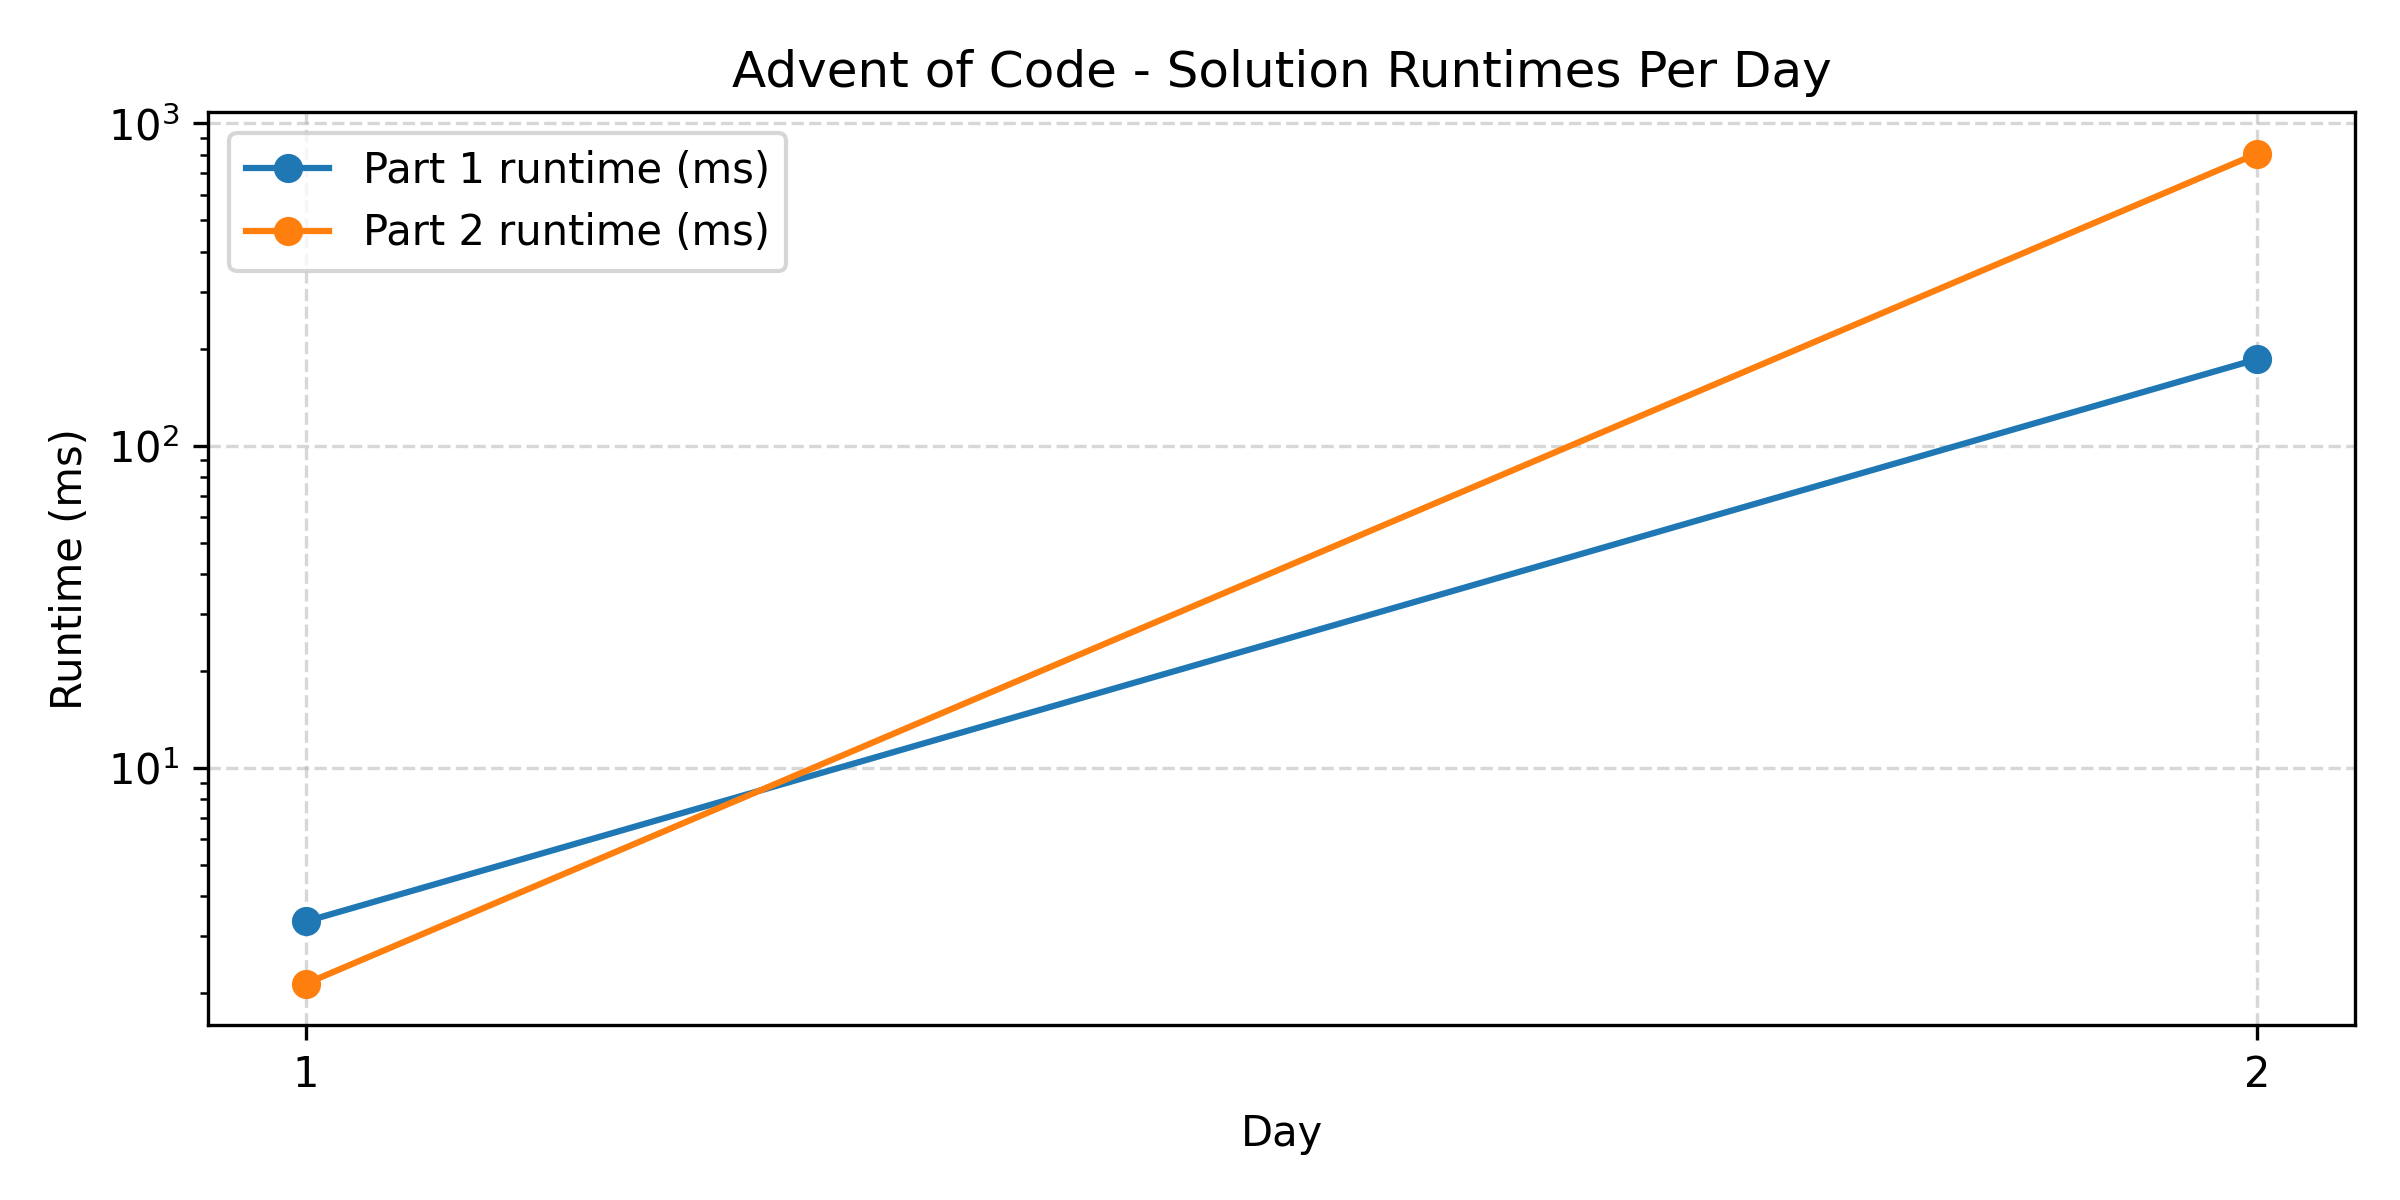
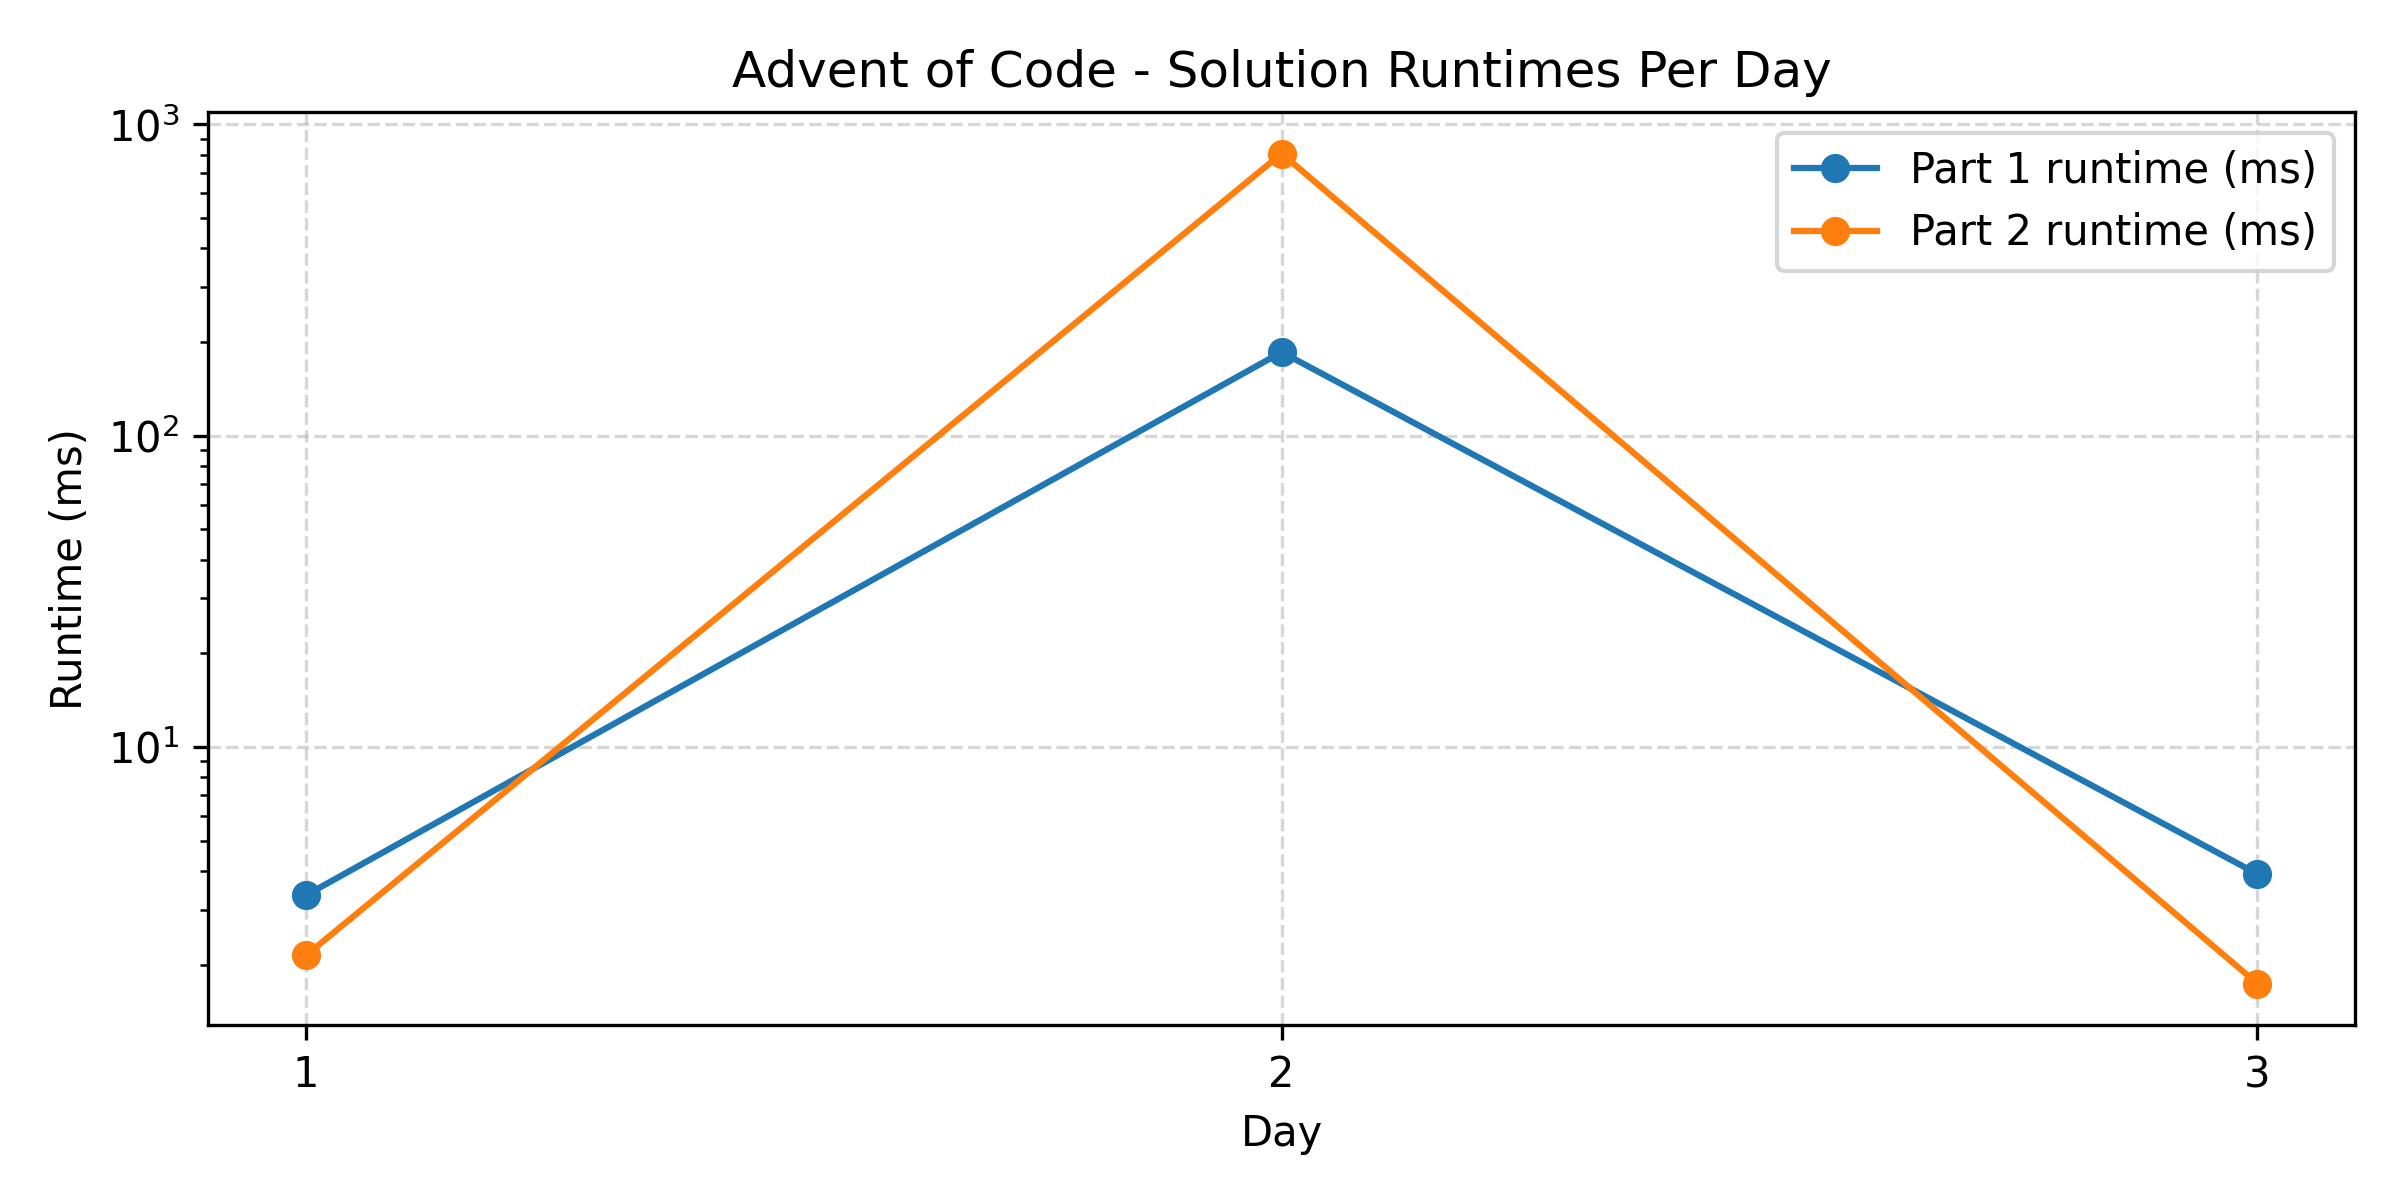
Day 03, AOC 2025. Update gitignore

diff --git a/2025/day03/src/main.rs b/2025/day03/src/main.rs
@@ -1,0 +1,67 @@
+use std::time::Instant;
+
+const INPUT: &str = include_str!("../../inputs/2025-03.txt");
+
+fn parse(input: &str) -> impl Iterator<Item = &[u8]> {
+    input.trim().lines().map(|line| line.as_bytes())
+}
+
+fn max_joltage(line: &[u8], k: usize) -> u64 {
+    let mut stack: Vec<u8> = Vec::with_capacity(k);
+    let mut to_drop = line.len() - k;
+
+    for &d in line {
+        while to_drop > 0 && !stack.is_empty() && *stack.last().unwrap() < d {
+            stack.pop();
+            to_drop -= 1;
+        }
+        stack.push(d);
+    }
+
+    stack.truncate(k);
+
+    std::str::from_utf8(&stack).unwrap().parse::<u64>().unwrap()
+}
+
+fn p1(input: &str) -> u64 {
+    parse(input).map(|line| max_joltage(line, 2)).sum()
+}
+
+fn p2(input: &str) -> u64 {
+    parse(input).map(|line| max_joltage(line, 12)).sum()
+}
+
+fn main() {
+    let now = Instant::now();
+    let solution = p1(INPUT);
+    println!("p1: {:?} {}", now.elapsed(), solution);
+
+    let now = Instant::now();
+    let solution = p2(INPUT);
+    println!("p2: {:?} {}", now.elapsed(), solution);
+}
+
+#[cfg(test)]
+mod tests {
+    use  super::*;
+
+    #[test]
+    fn test_p1() {
+        let input =
+            "987654321111111
+811111111111119
+234234234234278
+818181911112111";
+        assert_eq!(p1(input), 357);
+    }
+
+    #[test]
+    fn test_p2() {
+        let input =
+            "987654321111111
+811111111111119
+234234234234278
+818181911112111";
+        assert_eq!(p2(input), 3121910778619);
+   }
+}

diff --git a/2025/README.md b/2025/README.md
@@ -25,3 +25,25 @@ Solution for second part is a bit too brute-force for my liking, but I'm new to 
 I found `flat_map` and used it to expand the inputs `(start, end)` as it seemed an efficient way to work over the data.
 
 I then filter the result over the conditions I needed, before summing the result.
+
+## Day 03
+
+I spent almost two hours on it, so I broke with my own rule, but it was really fun to finally find a way to use monotonic stacks.
+
+I first read about them in [Introduction to Monotonic Stack](https://www.geeksforgeeks.org/dsa/introduction-to-monotonic-stack-2/),
+and was convinced to use them after reading [How to Identify and Solve Monotonic Stack Problems ?](https://www.geeksforgeeks.org/dsa/how-to-identify-and-solve-monotonic-stack-problems/).
+
+Input this time was quite simple, but I decided to really try my best to optimize it, and have recently worked with bytes, so I opted to work around those.
+I had not worked around those in Rust before, so I read up on them[1,2].
+
+Popping and pushing is covered well in the documentation[3], and after being stuck for quite a while, I found why `truncate` was necessary[4].
+
+Finding out how references and pointers worked in Rust also took me through the Rust Book, which is really even better than I remembered it.
+
+Overall, I don't think I can do much better than my monotonic approach, as I calculated it to be *O(n)*, while my first idea of brute forcing all possibilities would be exponentially worse.
+
+[1] [Primitive Type u8](https://doc.rust-lang.org/std/primitive.u8.html)
+[2] [Function from_utf8](https://doc.rust-lang.org/std/str/fn.from_utf8.html)
+[3] [Struct Vec](https://doc.rust-lang.org/std/vec/struct.Vec.html)
+[4] [truncate](https://doc.rust-lang.org/std/vec/struct.Vec.html#method.truncate)
+

diff --git a/README.md b/README.md
@@ -43,6 +43,8 @@ My chosen language of 2025 is Rust.
 |:----------------------------|:-----------------|:-----------------|
 | [1](2025/day01/src/main.rs) | 3.340542ms       | 2.141500ms       |
 | [2](2025/day02/src/main.rs) | 185.548583ms     | 806.102792ms     |
+| [3](2025/day03/src/main.rs) | 3.910500ms       | 1.737917ms       |
 <!-- END CSV TABLE -->
+
 
 ![Solution runtimes per day](tools/plot.png) 
